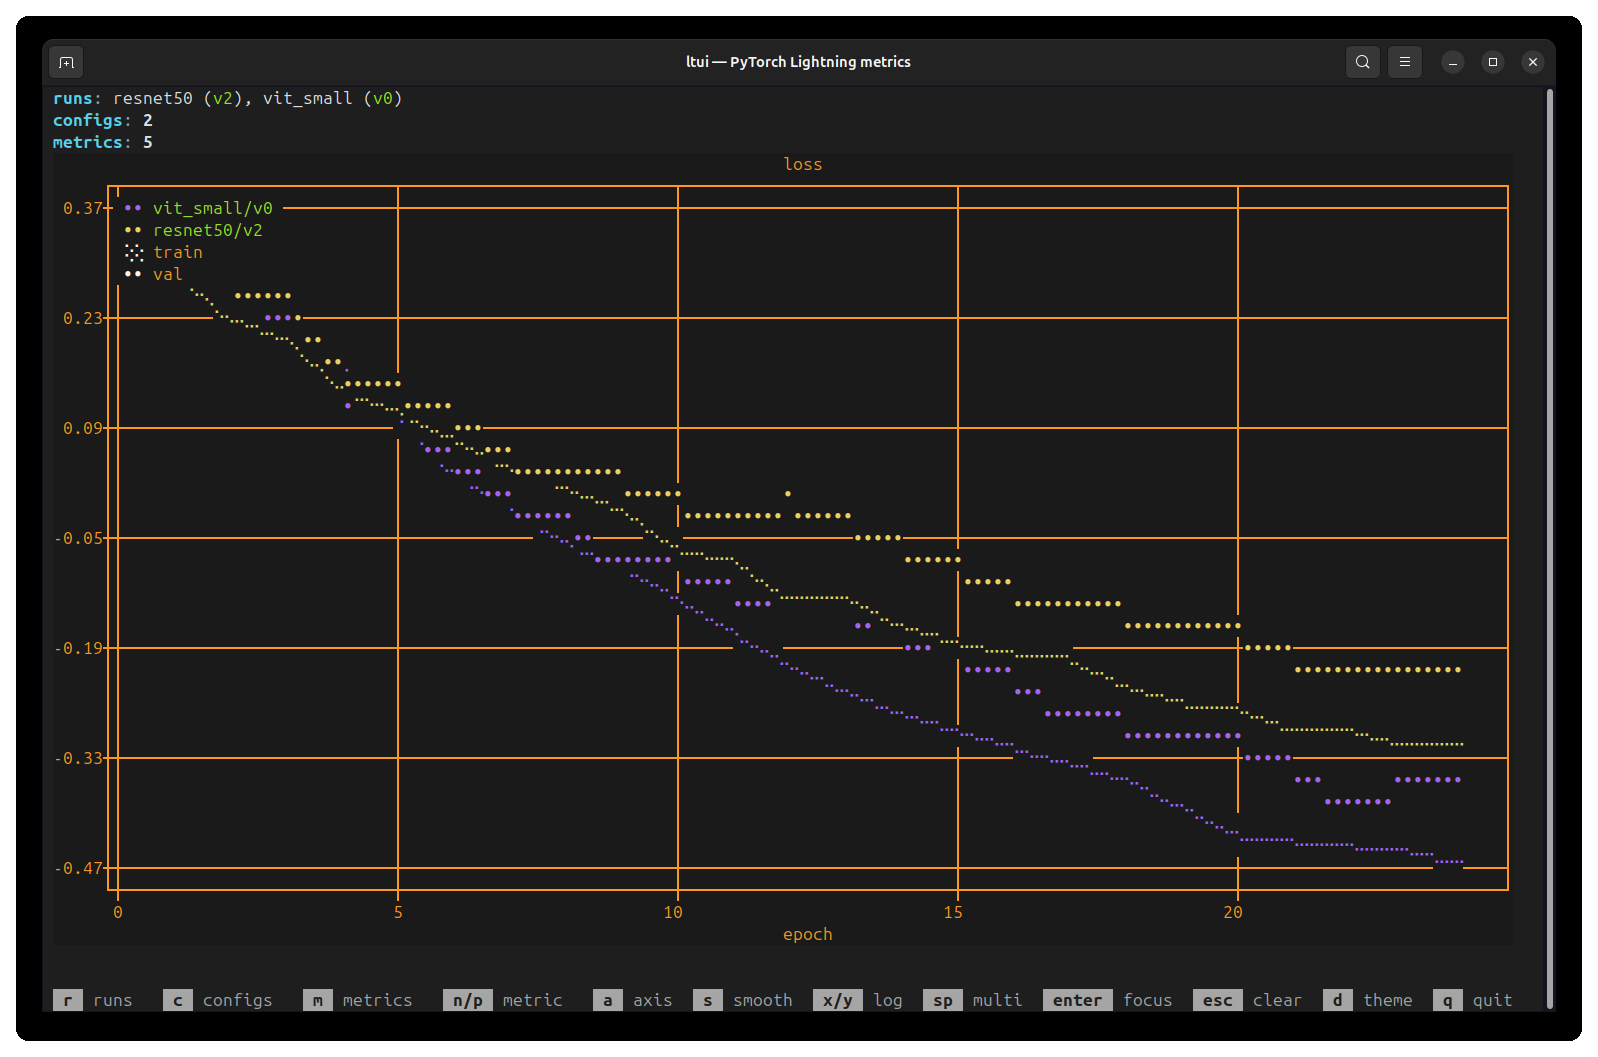
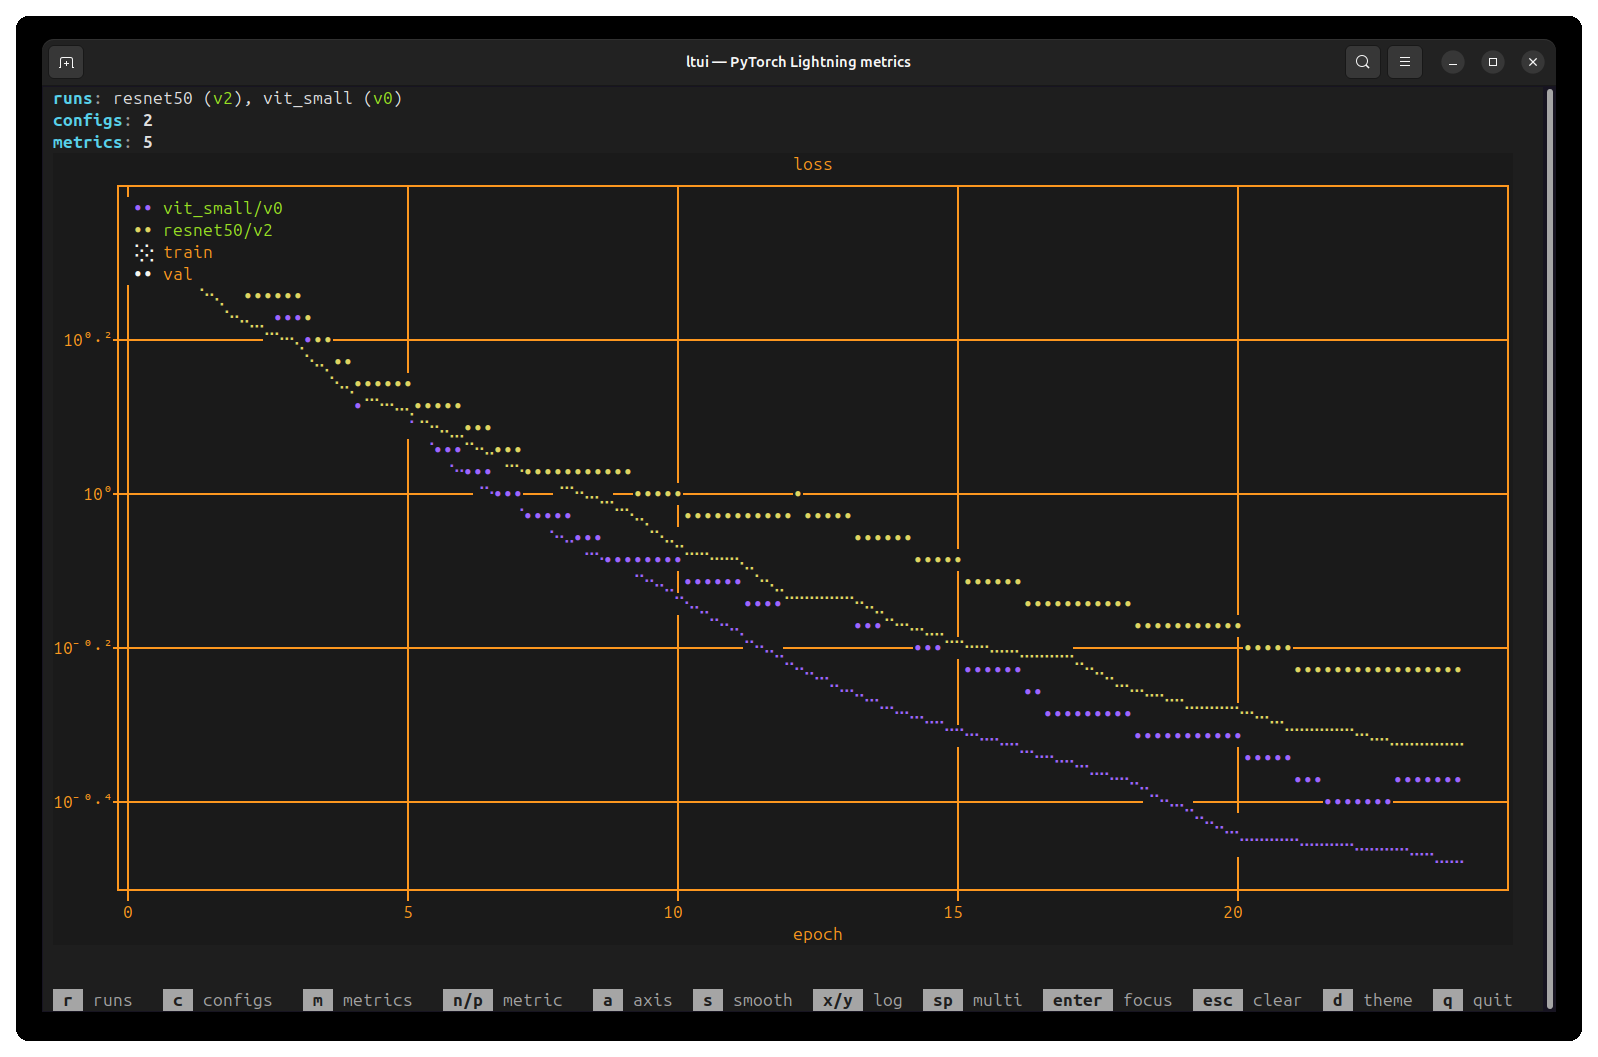
Format log ticks as powers

diff --git a/src/ltui/plotting.py b/src/ltui/plotting.py
@@ -71,6 +71,7 @@ class LegendEntry:
 
 
 ansi_pattern = re.compile(r"\x1b\[[0-9;]*m")
+superscript_digits = str.maketrans("-0123456789.", "⁻⁰¹²³⁴⁵⁶⁷⁸⁹·")
 
 
 def render_plot(
@@ -119,14 +120,20 @@ def render_plot(
     if title:
         plt.title(title)
     if x_label:
-        plt.xlabel(f"log10({x_label})" if log_x else x_label)
+        plt.xlabel(x_label)
     if y_label:
-        plt.ylabel(f"log10({y_label})" if log_y else y_label)
+        plt.ylabel(y_label)
     plt.xlim(left=bounds.x_left, right=bounds.x_right)
     plt.ylim(lower=bounds.y_lower, upper=bounds.y_upper)
-    if x_label in {"step", "epoch"} and not log_x:
+    if log_x:
+        ticks, labels = log_ticks(bounds.x_left, bounds.x_right)
+        plt.xticks(ticks, labels)
+    elif x_label in {"step", "epoch"}:
         ticks = integer_ticks(bounds.x_left, bounds.x_right)
         plt.xticks(ticks, [str(tick) for tick in ticks])
+    if log_y:
+        ticks, labels = log_ticks(bounds.y_lower, bounds.y_upper)
+        plt.yticks(ticks, labels)
 
     for curve in prepared:
         if curve.role == "val":
@@ -387,6 +394,46 @@ def nice_integer_step(minimum: int) -> int:
         if step >= minimum:
             return step
     return 10 * magnitude
+
+
+def log_ticks(left: float, right: float, target_count: int = 6) -> tuple[list[float], list[str]]:
+    if right < left:
+        left, right = right, left
+    span = right - left
+    if span <= 0 or not math.isfinite(span):
+        ticks = [round(left, 10)]
+        return ticks, [format_log_tick(ticks[0])]
+
+    step = nice_log_step(span / max(target_count - 1, 1))
+    first = math.ceil(left / step) * step
+    last = math.floor(right / step) * step
+    ticks: list[float] = []
+    value = first
+    while value <= last + step * 0.1:
+        ticks.append(round(value, 10))
+        value += step
+    if not ticks:
+        ticks = [round((left + right) / 2, 10)]
+    return ticks, [format_log_tick(tick) for tick in ticks]
+
+
+def nice_log_step(minimum: float) -> float:
+    if minimum <= 0 or not math.isfinite(minimum):
+        return 1.0
+    magnitude = 10 ** math.floor(math.log10(minimum))
+    for factor in (1, 2, 5, 10):
+        step = factor * magnitude
+        if step >= minimum:
+            return step
+    return 10 * magnitude
+
+
+def format_log_tick(exponent: float) -> str:
+    if math.isclose(exponent, round(exponent), abs_tol=1e-9):
+        text = str(int(round(exponent)))
+    else:
+        text = f"{exponent:.2f}".rstrip("0").rstrip(".")
+    return f"10{text.translate(superscript_digits)}"
 
 
 def plot_val(curve: PlotCurve) -> None:

diff --git a/tests/test_state.py b/tests/test_state.py
@@ -24,6 +24,7 @@ def test_state_restore_drops_missing_paths_and_metrics(tmp_path: Path) -> None:
         active_metric="missing",
         x_axis_mode="epoch",
         dark_mode=False,
+        multiplot=True,
     )
 
     restored = valid_state(saved, [run], ("loss",))
@@ -33,3 +34,31 @@ def test_state_restore_drops_missing_paths_and_metrics(tmp_path: Path) -> None:
     assert restored.active_metric == "loss"
     assert restored.x_axis_mode == "epoch"
     assert restored.dark_mode is False
+    assert restored.multiplot is True
+
+
+def test_state_restore_disables_multiplot_when_metrics_are_missing(tmp_path: Path) -> None:
+    existing = tmp_path / "version_0" / "metrics.csv"
+    existing.parent.mkdir(parents=True)
+    existing.write_text("step,loss\n0,1.0\n")
+    run = RunVersion(
+        display_name="version_0",
+        metrics_csv_path=existing.resolve(),
+        config_yaml_path=None,
+        parent_name=None,
+        version_name="version_0",
+        last_modified=1.0,
+        status="active",
+        available_numeric_metrics=("loss",),
+    )
+    saved = UiState(
+        selected_run_paths=(str(existing.resolve()),),
+        selected_metrics=("missing",),
+        active_metric="missing",
+        multiplot=True,
+    )
+
+    restored = valid_state(saved, [run], ("loss",))
+
+    assert restored.selected_metrics == ()
+    assert restored.multiplot is False

diff --git a/tests/test_app.py b/tests/test_app.py
@@ -12,6 +12,7 @@ from ltui.app import (
     keybinding_bar,
 )
 from ltui.plotting import PlotResult
+from ltui.state import UiState
 
 
 def write_multimetric_log(path: Path) -> None:
@@ -334,6 +335,29 @@ def test_space_opens_multiplot_grid() -> None:
 
                 assert app.multiplot is True
                 assert app.multiplot_selection is None
+
+    asyncio.run(run())
+
+
+def test_initial_state_restores_multiplot_view() -> None:
+    async def run() -> None:
+        with TemporaryDirectory() as tmp:
+            root = Path(tmp)
+            metrics = root / "lightning_logs" / "version_0" / "metrics.csv"
+            write_multimetric_log(metrics)
+            saved = UiState(
+                selected_run_paths=(str(metrics.resolve()),),
+                selected_metrics=("loss", "accuracy"),
+                active_metric="loss",
+                multiplot=True,
+            )
+
+            with patch("ltui.app.load_state", return_value=saved):
+                app = LightningTuiApp(root)
+                async with app.run_test(size=(120, 40)) as pilot:
+                    await pilot.pause(0.5)
+
+                    assert app.multiplot is True
 
     asyncio.run(run())
 

diff --git a/tests/test_plotting.py b/tests/test_plotting.py
@@ -9,8 +9,10 @@ from ltui.plotting import (
     PlotPanel,
     color_active_run_labels,
     draw_legend_entries,
+    format_log_tick,
     grid_layout,
     integer_ticks,
+    log_ticks,
     plot_val,
     prepare_curve,
     render_plot_grid,
@@ -49,6 +51,24 @@ def test_render_plot_uses_integer_step_ticks() -> None:
     ticks, labels = xticks.call_args.args
     assert ticks == [0, 10, 20, 30, 40, 50]
     assert labels == ["0", "10", "20", "30", "40", "50"]
+
+
+def test_render_plot_uses_power_labels_for_log_y() -> None:
+    curve = PlotCurve(label="loss", x=(0.0, 1.0), y=(0.1, 10.0))
+
+    with patch("ltui.plotting.plt.yticks") as yticks:
+        render_plot([curve], width=60, height=20, log_y=True)
+
+    ticks, labels = yticks.call_args.args
+    assert ticks == [-1.0, -0.5, 0.0, 0.5, 1.0]
+    assert labels == ["10⁻¹", "10⁻⁰·⁵", "10⁰", "10⁰·⁵", "10¹"]
+
+
+def test_log_ticks_format_exponents_as_powers() -> None:
+    ticks, labels = log_ticks(-2.1, 1.1, target_count=5)
+
+    assert ticks == [-2, -1, 0, 1]
+    assert labels == [format_log_tick(tick) for tick in ticks]
 
 
 def test_integer_ticks_are_discrete_for_small_epoch_range() -> None:

diff --git a/src/ltui/app.py b/src/ltui/app.py
@@ -486,10 +486,12 @@ class LightningTuiApp(App[None]):
     ) -> None:
         self.runs = runs
         self.metrics_cache = metrics_cache
+        restore_multiplot = False
         if not runs:
             self.selected_run_paths = []
             self.selected_metrics = []
             self.active_metric_index = 0
+            self.multiplot = False
             return
 
         if initial:
@@ -509,6 +511,7 @@ class LightningTuiApp(App[None]):
                 self.selected_metrics = list(restored.selected_metrics)
                 if restored.active_metric in self.selected_metrics:
                     self.active_metric_index = self.selected_metrics.index(restored.active_metric)
+                restore_multiplot = restored.multiplot
 
         self.selected_run_paths = [path for path in self.selected_run_paths if path in self.metrics_cache]
         if not self.selected_run_paths:
@@ -522,6 +525,11 @@ class LightningTuiApp(App[None]):
         if self.active_metric_index >= len(self.selected_metrics):
             self.active_metric_index = 0
         self.metric_settings = {metric: settings for metric, settings in self.metric_settings.items() if metric in self.selected_metrics}
+        if initial:
+            self.multiplot = restore_multiplot and bool(self.selected_metrics)
+            if not self.multiplot:
+                self.multiplot_selection = None
+                self.multiplot_page = 0
         self.clamp_multiplot_selection()
 
     def render_current(self) -> None:
@@ -802,6 +810,7 @@ class LightningTuiApp(App[None]):
                 smoothing=self.smoothing,
                 log_x=self.log_x,
                 log_y=self.log_y,
+                multiplot=self.multiplot,
             ),
         )
 

diff --git a/src/ltui/state.py b/src/ltui/state.py
@@ -23,6 +23,7 @@ class UiState:
     smoothing: bool = False
     log_x: bool = False
     log_y: bool = False
+    multiplot: bool = False
 
 
 def state_path(root: str | Path) -> Path:
@@ -59,6 +60,7 @@ def load_state(root: str | Path) -> UiState | None:
         smoothing=bool(data.get("smoothing", False)),
         log_x=bool(data.get("log_x", False)),
         log_y=bool(data.get("log_y", False)),
+        multiplot=bool(data.get("multiplot", False)),
     )
 
 
@@ -88,6 +90,7 @@ def valid_state(saved: UiState, runs: list[RunVersion], metric_choices: tuple[st
         smoothing=saved.smoothing,
         log_x=saved.log_x,
         log_y=saved.log_y,
+        multiplot=saved.multiplot and bool(selected_metrics),
     )
 
 